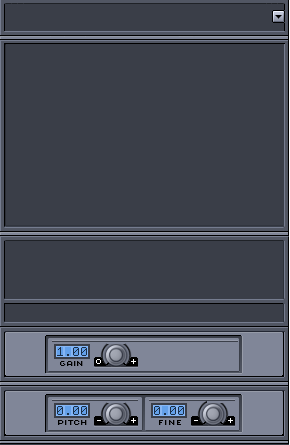
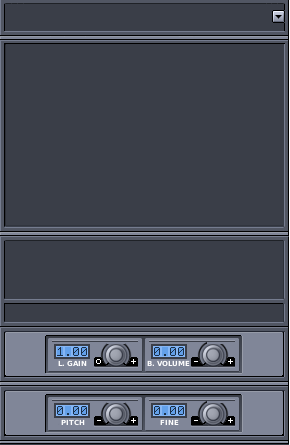
separate gain per bank .gitignore to include QT Creator file

diff --git a/src/gui/src/InstrumentEditor/InstrumentEditor.cpp b/src/gui/src/InstrumentEditor/InstrumentEditor.cpp
@@ -387,6 +387,10 @@ InstrumentEditor::InstrumentEditor( QWidget* pParent )
 	m_pLayerGainRotary = new Rotary( m_pLayerProp,  Rotary::TYPE_NORMAL, trUtf8( "Layer gain" ), false, false );
 	connect( m_pLayerGainRotary, SIGNAL( valueChanged(Rotary*) ), this, SLOT( rotaryChanged(Rotary*) ) );
 
+	m_pCompoGainLCD = new LCDDisplay( m_pLayerProp, LCDDigit::SMALL_BLUE, 4 );
+	m_pCompoGainRotary = new Rotary( m_pLayerProp,  Rotary::TYPE_NORMAL, trUtf8( "Bank volume" ), false, false );
+	connect( m_pCompoGainRotary, SIGNAL( valueChanged(Rotary*) ), this, SLOT( rotaryChanged(Rotary*) ) );
+
 	m_pLayerPitchCoarseLCD = new LCDDisplay( m_pLayerProp, LCDDigit::SMALL_BLUE, 4 );
 	m_pLayerPitchFineLCD = new LCDDisplay( m_pLayerProp, LCDDigit::SMALL_BLUE, 4 );
 
@@ -402,6 +406,9 @@ InstrumentEditor::InstrumentEditor( QWidget* pParent )
 
 	m_pLayerGainLCD->move( 54, 341 + 3 );
 	m_pLayerGainRotary->move( 102, 341 );
+
+	m_pCompoGainLCD->move( 151, 341 + 3 );
+	m_pCompoGainRotary->move( 199, 341 );
 
 
 	m_pLayerPitchCoarseLCD->move( 54, 400 + 3 );
@@ -562,7 +569,14 @@ void InstrumentEditor::selectedInstrumentChangedEvent()
         if(m_nSelectedLayer >= 0){
             InstrumentComponent* component = m_pInstrument->get_component( m_nSelectedComponent );
             if(component) {
-                InstrumentLayer* p_layer = component->get_layer( m_nSelectedLayer );
+
+				char tmp[20];
+				sprintf( tmp, "%#.2f", component->get_gain());
+				m_pCompoGainLCD->setText( tmp );
+
+				m_pCompoGainRotary->setValue( component->get_gain() / 5.0 );
+
+				InstrumentLayer* p_layer = component->get_layer( m_nSelectedLayer );
                 if(p_layer) {
                     m_pWaveDisplay->updateDisplay( p_layer );
                 }
@@ -632,6 +646,15 @@ void InstrumentEditor::rotaryChanged(Rotary *ref)
                     m_pWaveDisplay->updateDisplay( pLayer );
                 }
             }
+		}
+		else if ( ref == m_pCompoGainRotary ) {
+			fVal = fVal * 5.0;
+			char tmp[20];
+			sprintf( tmp, "%#.2f", fVal );
+			m_pCompoGainLCD->setText( tmp );
+
+			InstrumentComponent* pCompo = m_pInstrument->get_component(m_nSelectedComponent);
+			pCompo->set_gain( fVal );
 		}
 		else if ( ref == m_pLayerPitchCoarseRotary ) {
 			//fVal = fVal * 24.0 - 12.0;
@@ -1168,7 +1191,7 @@ void InstrumentEditor::compoChangeAddDelete(QAction* pAction)
             if( p_compo->get_name().compare( p_selected ) == 0) {
                 m_nSelectedComponent = p_compo->get_id();
                 m_pCompoNameLbl->setText( p_compo->get_name() );
-                break;
+				break;
             }
         }
 

diff --git a/src/gui/src/InstrumentEditor/InstrumentEditor.h b/src/gui/src/InstrumentEditor/InstrumentEditor.h
@@ -152,12 +152,6 @@ class InstrumentEditor : public QWidget, public H2Core::Object, public EventList
 		Rotary *m_pLayerGainRotary;
 		LCDDisplay *m_pLayerGainLCD;
 
-		// Component
-        ClickableLabel *m_pCompoNameLbl;
-		Button *m_buttonDropDownCompo;
-		QStringList itemsCompo;
-		QMenu *popCompo;
-
 		Rotary *m_pLayerPitchCoarseRotary;
 		Rotary *m_pLayerPitchFineRotary;
 
@@ -173,7 +167,15 @@ class InstrumentEditor : public QWidget, public H2Core::Object, public EventList
 		//~ Layer properties
 
 
+		// Component
+		ClickableLabel *m_pCompoNameLbl;
+		Button *m_buttonDropDownCompo;
+		QStringList itemsCompo;
+		QMenu *popCompo;
 
+		Rotary *m_pCompoGainRotary;
+		LCDDisplay *m_pCompoGainLCD;
+		//~ Component
 
 		void loadLayer();
 		void setAutoVelocity();
